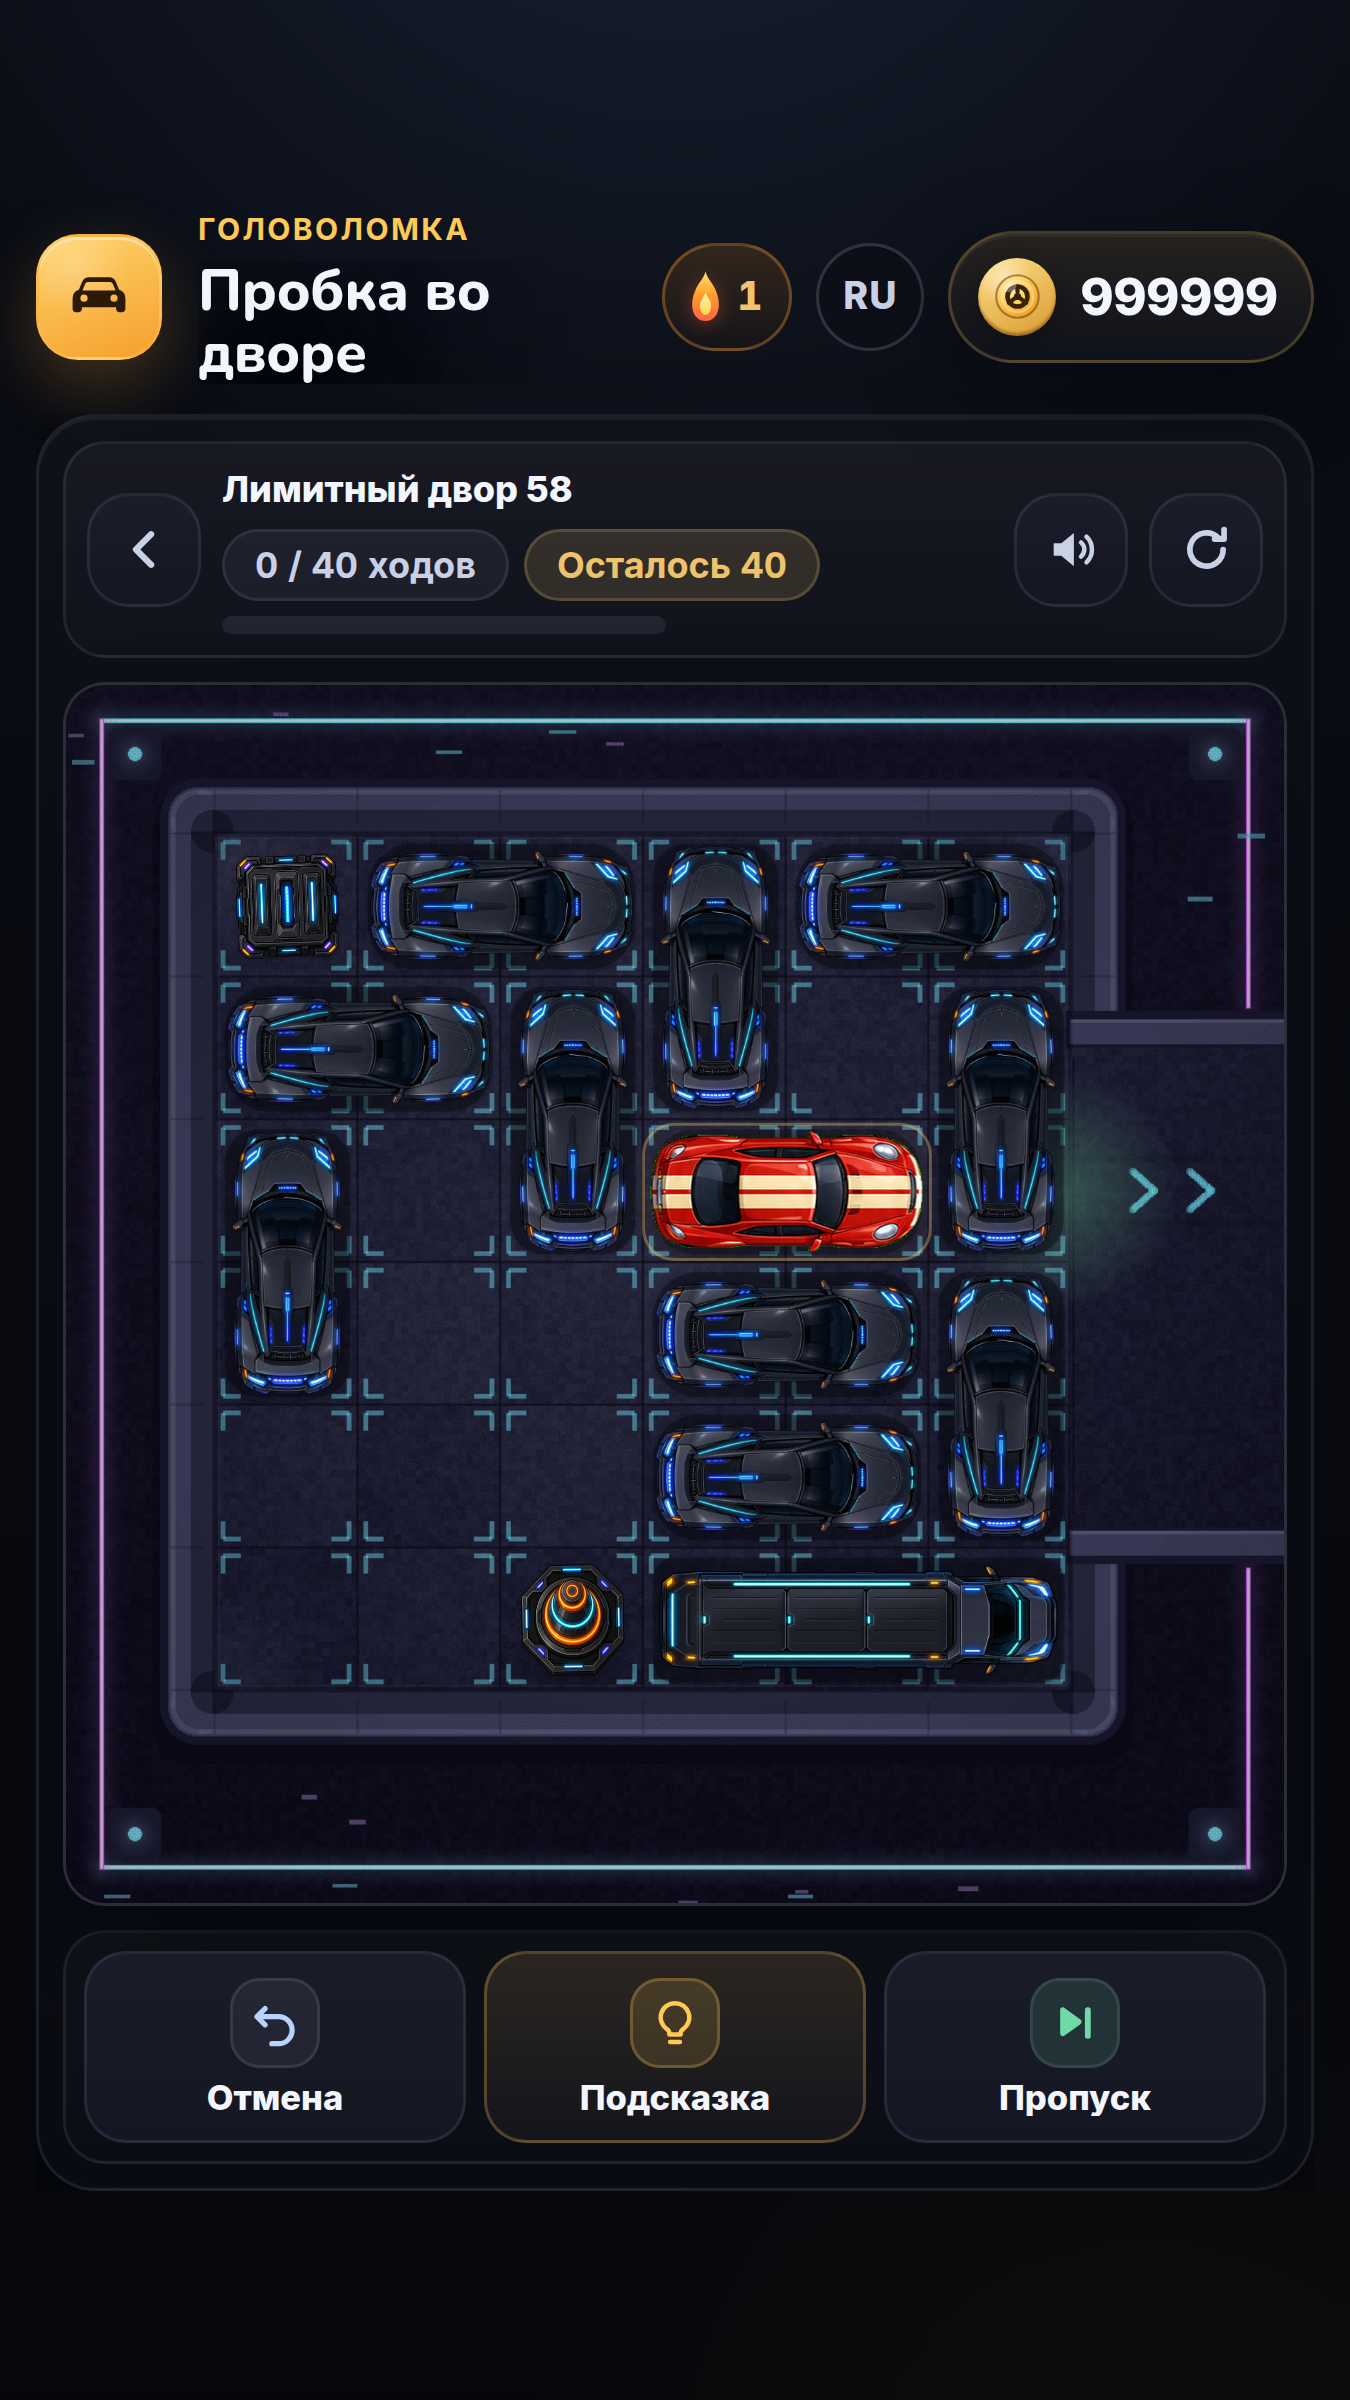
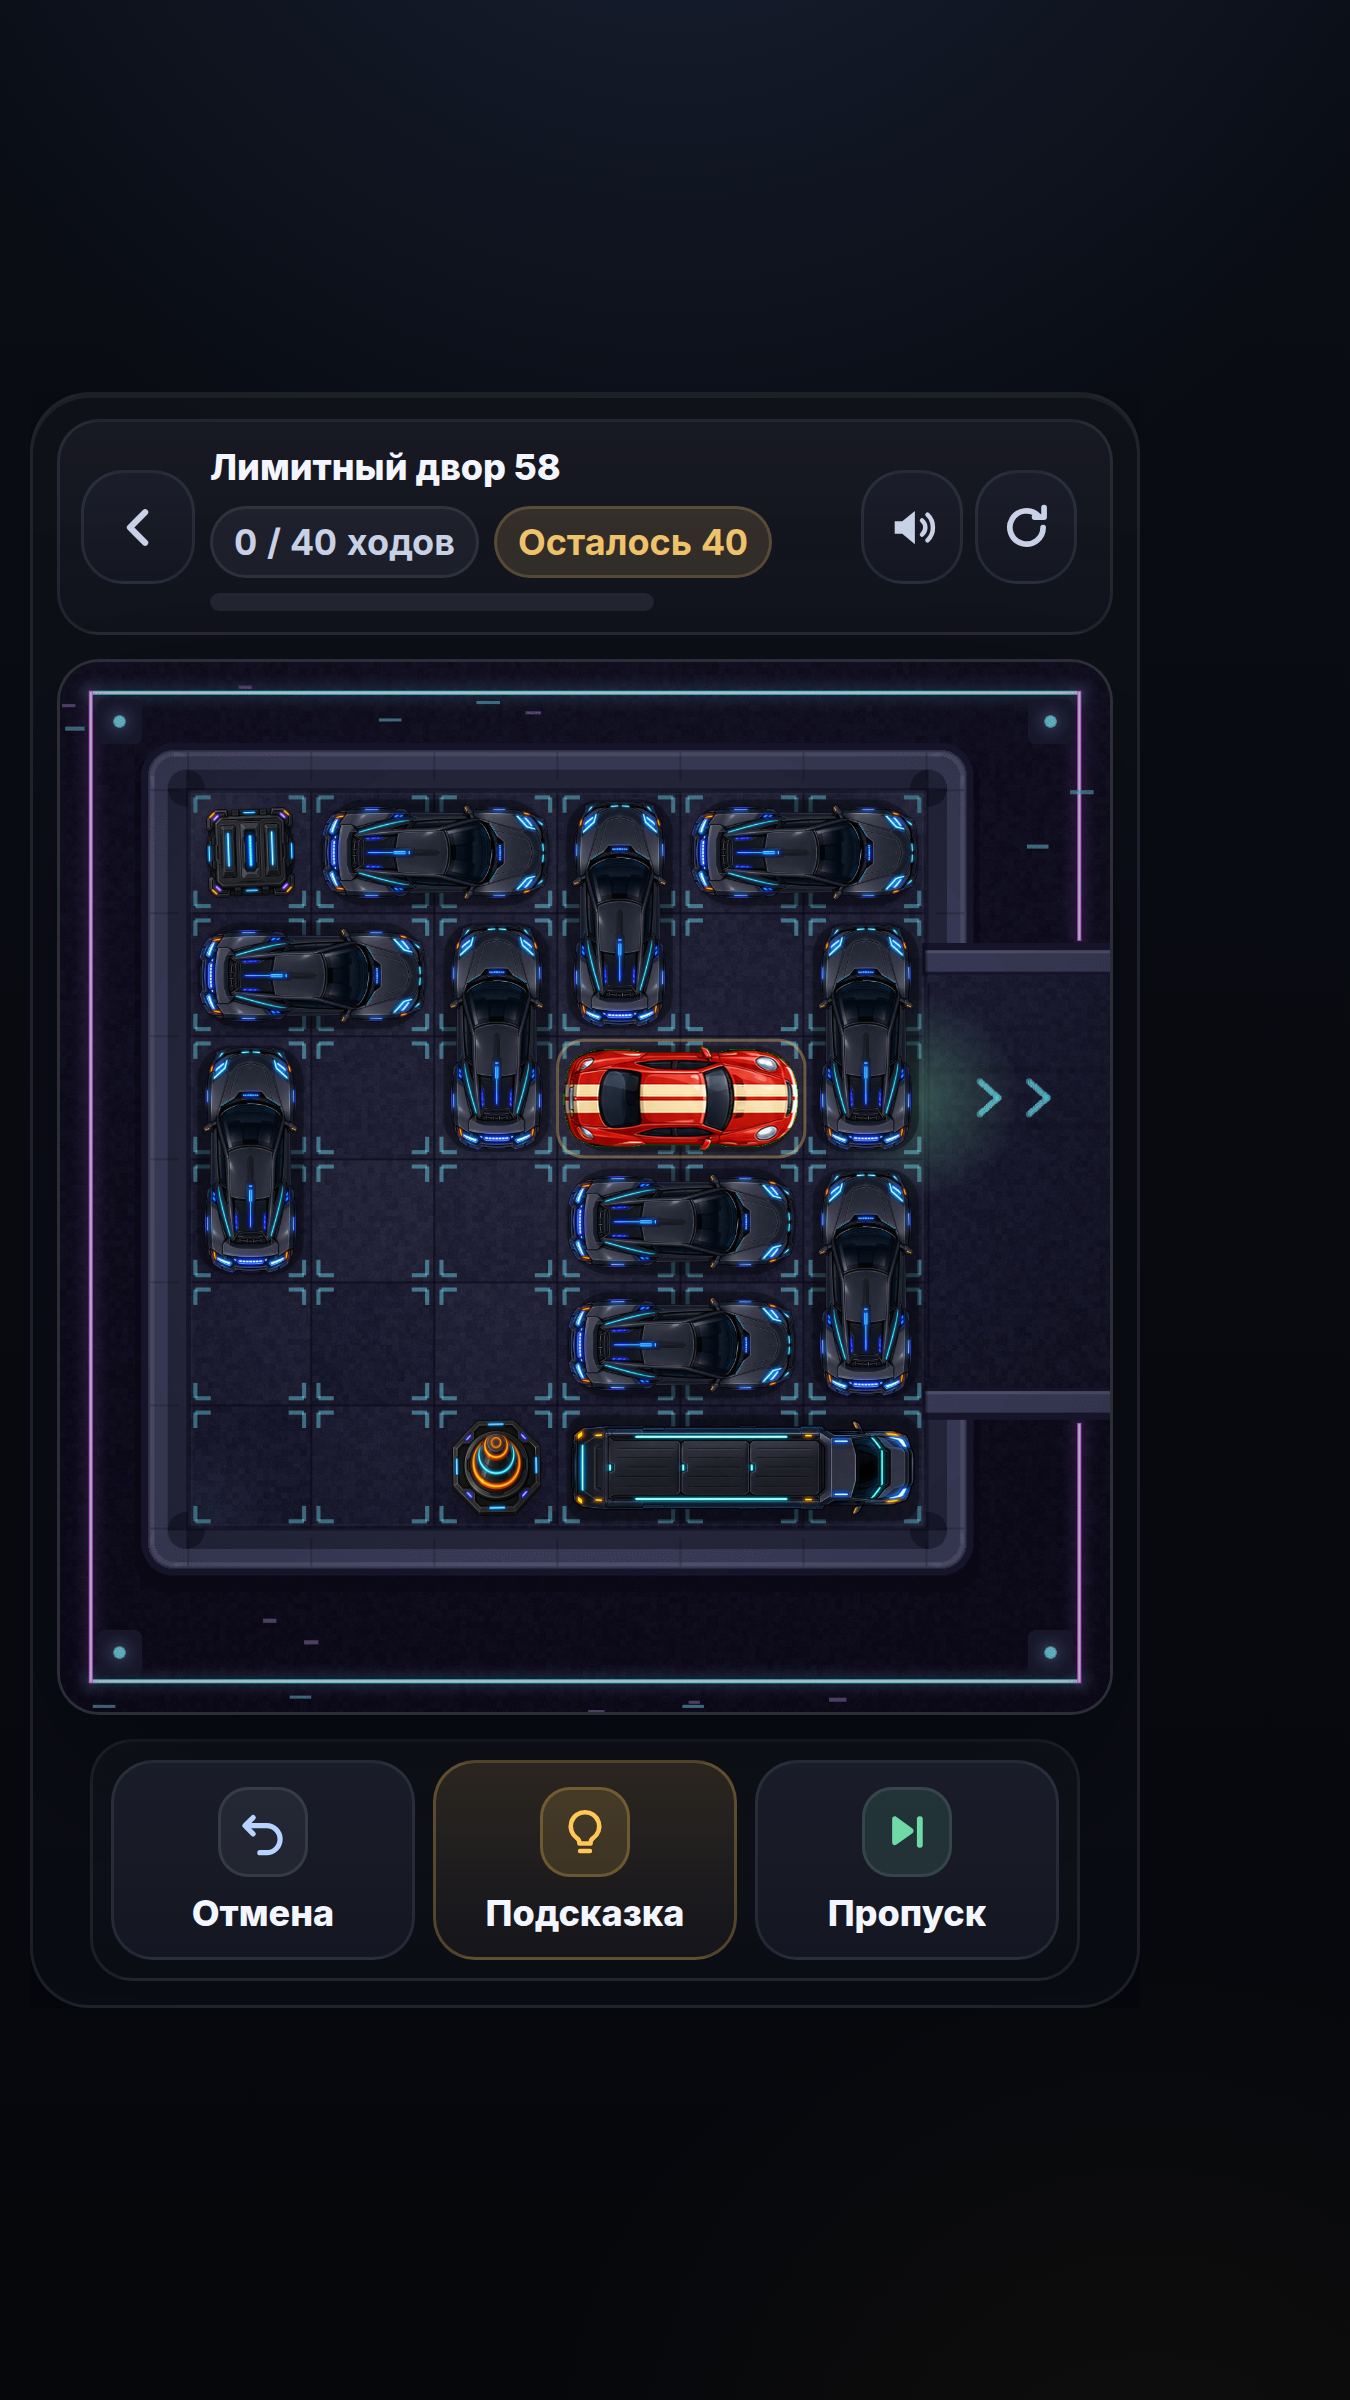
fix(yandex moderation): lock page scroll + gameplay-dominant screenshots
Addresses moderation round-2 notes:
- 1.10.2 (page scroll / pull-to-refresh): the document (html, body) is now
  fully locked (overflow:hidden, body position:fixed inset:0) on EVERY
  screen, not just during the game. Scrolling lives only inside .app
  (overscroll-behavior:contain) so there's no page scroll, bounce or
  swipe-to-refresh anywhere. (Selection/contextmenu blockers were already
  global; verified bound.)
- 5.1.1.2 (gameplay <70% of screenshot): regenerated screen1-6 with
  capture=mobile, which hides the brand topbar so the play screen
  (HUD + board + tools) fills the frame. Generator updated accordingly.

Icon (square RGB, no alpha/rounding) and cover (promo illustration, not a
screenshot) were already compliant — the rejected ones were stale uploads.

Smoke 18/18.

diff --git a/probka-game/styles.css b/probka-game/styles.css
@@ -70,10 +70,11 @@ html,
 body {
   margin: 0;
   width: 100%;
-  min-height: 100%;
-  overflow-x: hidden;
-  /* Запрет выделения текста, контекстного меню iOS и прокрутки-цепочки
-     (pull-to-refresh, bounce) — требования платформы 1.6 и 1.10. */
+  height: 100%;
+  /* Документ полностью залочен: никакого скролла страницы, pull-to-refresh,
+     bounce, выделения текста и контекстного меню (требования 1.6 и 1.10).
+     Прокрутка контента живёт во внутреннем контейнере .app. */
+  overflow: hidden;
   overscroll-behavior: none;
   -webkit-user-select: none;
   -moz-user-select: none;
@@ -90,6 +91,12 @@ body {
   line-height: 1.35;
   -webkit-font-smoothing: antialiased;
   text-rendering: optimizeLegibility;
+}
+
+/* Тело зафиксировано к вьюпорту — страница не скроллится и не «оттягивается». */
+body {
+  position: fixed;
+  inset: 0;
 }
 
 /* Дисплейный шрифт (Nunito, округлый) — для брендовых и крупных акцентов.
@@ -158,9 +165,13 @@ button:disabled {
 .app {
   width: 100%;
   max-width: 600px;
-  min-height: 100vh;
+  height: 100%;
   margin: 0 auto;
-  padding: max(16px, env(safe-area-inset-top)) 16px calc(72px + env(safe-area-inset-bottom));
+  padding: max(16px, env(safe-area-inset-top)) 16px calc(48px + env(safe-area-inset-bottom));
+  /* Единственный скролл-контейнер игры; цепочка к документу обрезана. */
+  overflow-y: auto;
+  overscroll-behavior: contain;
+  -webkit-overflow-scrolling: touch;
 }
 
 .game-shell {

diff --git a/probka-game/tools/generate-yandex-assets.js b/probka-game/tools/generate-yandex-assets.js
@@ -35,7 +35,9 @@ const pages = [
 const SHOT_CSS_WIDTH = 450;
 const SHOT_CSS_HEIGHT = 800;
 const SHOT_SCALE = 3;
-const shotUrl = (params) => `${baseUrl}/probka-game/index.html?showcase=1&skin=classic_red&${params}`;
+// capture=mobile прячет брендовый топбар → геймплей-экран (HUD+доска+кнопки)
+// занимает ≥70% кадра (требование Яндекса 5.1.1.2).
+const shotUrl = (params) => `${baseUrl}/probka-game/index.html?showcase=1&capture=mobile&skin=classic_red&${params}`;
 const screenshots = [
   { name: "screen1-night", url: shotUrl("mode=moves&level=24&yard=night_yard") },
   { name: "screen2-neon", url: shotUrl("mode=moves&level=58&yard=neon_yard") },

diff --git a/probka-game/index.html b/probka-game/index.html
@@ -10,7 +10,7 @@
     <link rel="preload" href="./assets/fonts/nunito-800-latin.woff2" as="font" type="font/woff2" crossorigin />
     <link rel="preload" href="./assets/fonts/nunito-800-cyrillic.woff2" as="font" type="font/woff2" crossorigin />
     <link rel="stylesheet" href="./assets/fonts/fonts.css?v=polish1" />
-    <link rel="stylesheet" href="./styles.css?v=polish25" />
+    <link rel="stylesheet" href="./styles.css?v=polish26" />
   </head>
   <body class="loading">
     <svg class="svg-defs" aria-hidden="true" focusable="false">
